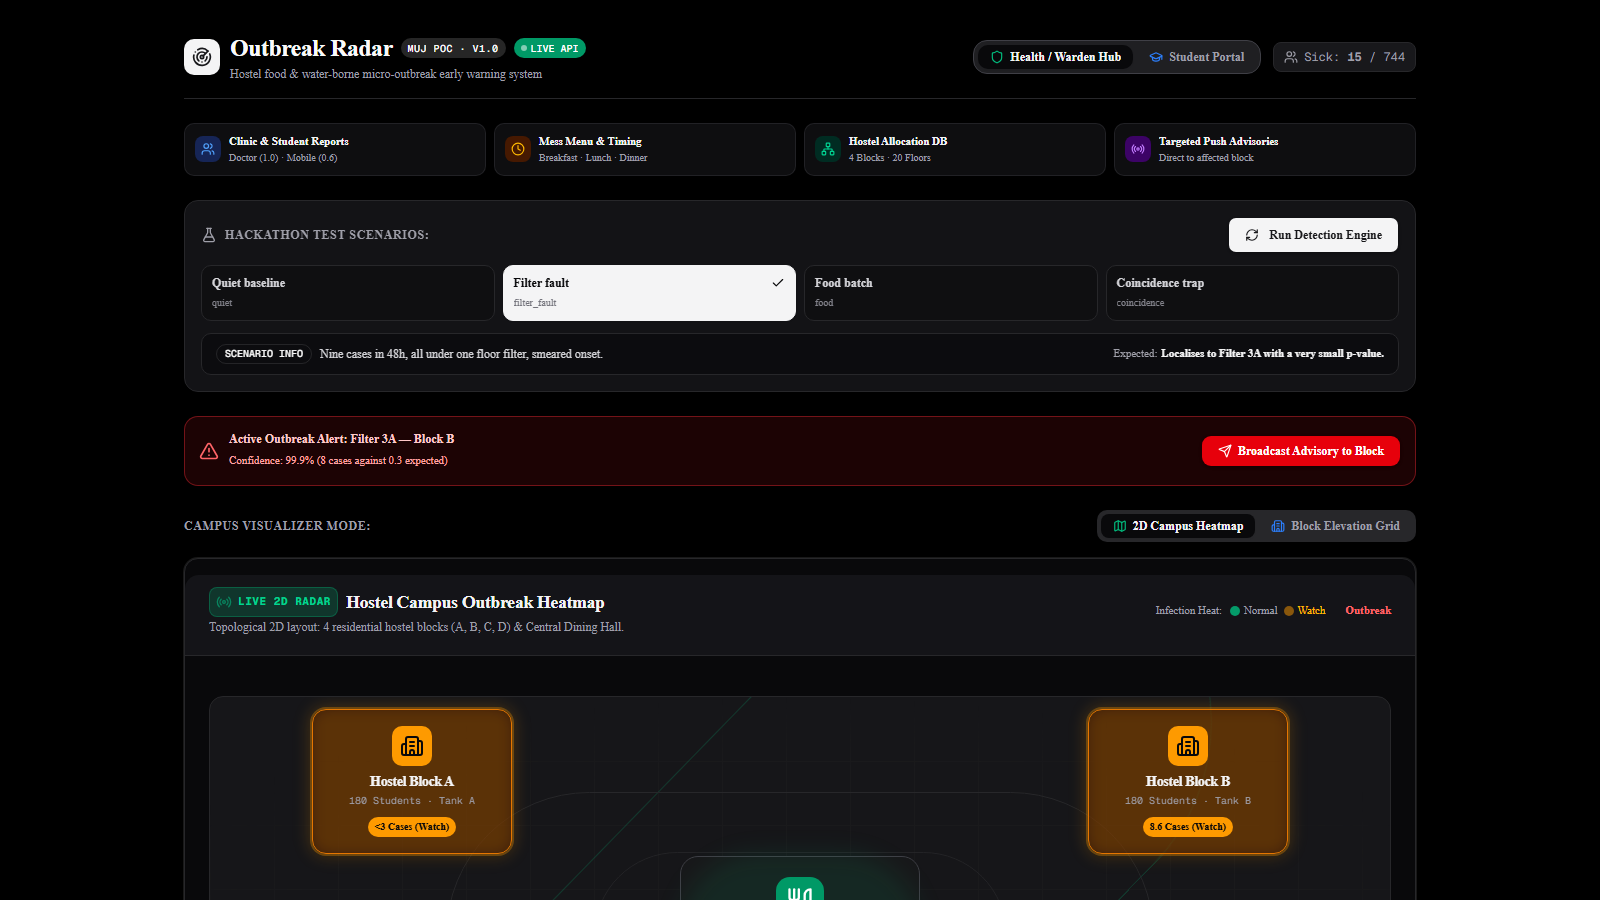
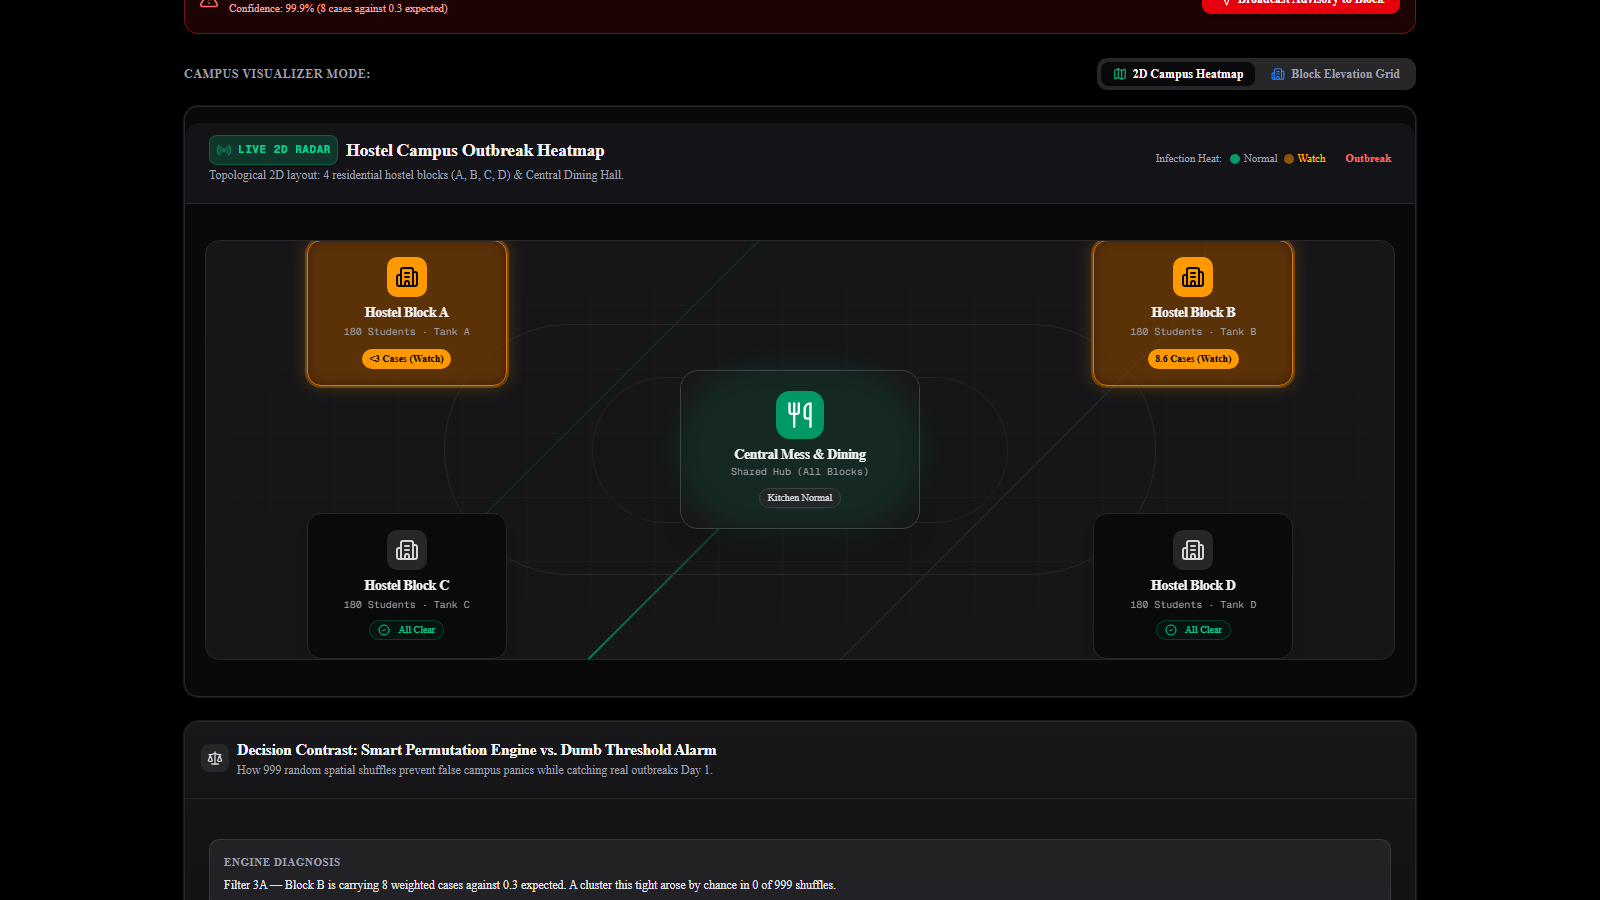
feat(radar): center 2D heatmap viewport and refresh deck screenshots

diff --git a/components/radar/campus-map-view.tsx b/components/radar/campus-map-view.tsx
@@ -66,8 +66,8 @@ export function CampusMapView({ elevation, result }: CampusMapViewProps) {
         </CardHeader>
 
         {/* 2D Interactive Map Canvas */}
-        <CardContent className="p-4 sm:p-6">
-          <div className="relative w-full aspect-[16/10] max-h-[480px] rounded-xl bg-zinc-900/90 border border-zinc-800 overflow-hidden flex items-center justify-center p-4">
+        <CardContent className="p-3 sm:p-5">
+          <div className="relative w-full aspect-[16/10] max-h-[420px] rounded-xl bg-zinc-900/90 border border-zinc-800 overflow-hidden flex items-center justify-center p-3">
             {/* Background Grid Lines representing campus pathways */}
             <div className="absolute inset-0 bg-[linear-gradient(to_right,#27272a_1px,transparent_1px),linear-gradient(to_bottom,#27272a_1px,transparent_1px)] bg-[size:4rem_4rem] [mask-image:radial-gradient(ellipse_60%_50%_at_50%_50%,#000_70%,transparent_100%)] opacity-30 pointer-events-none" />
 
